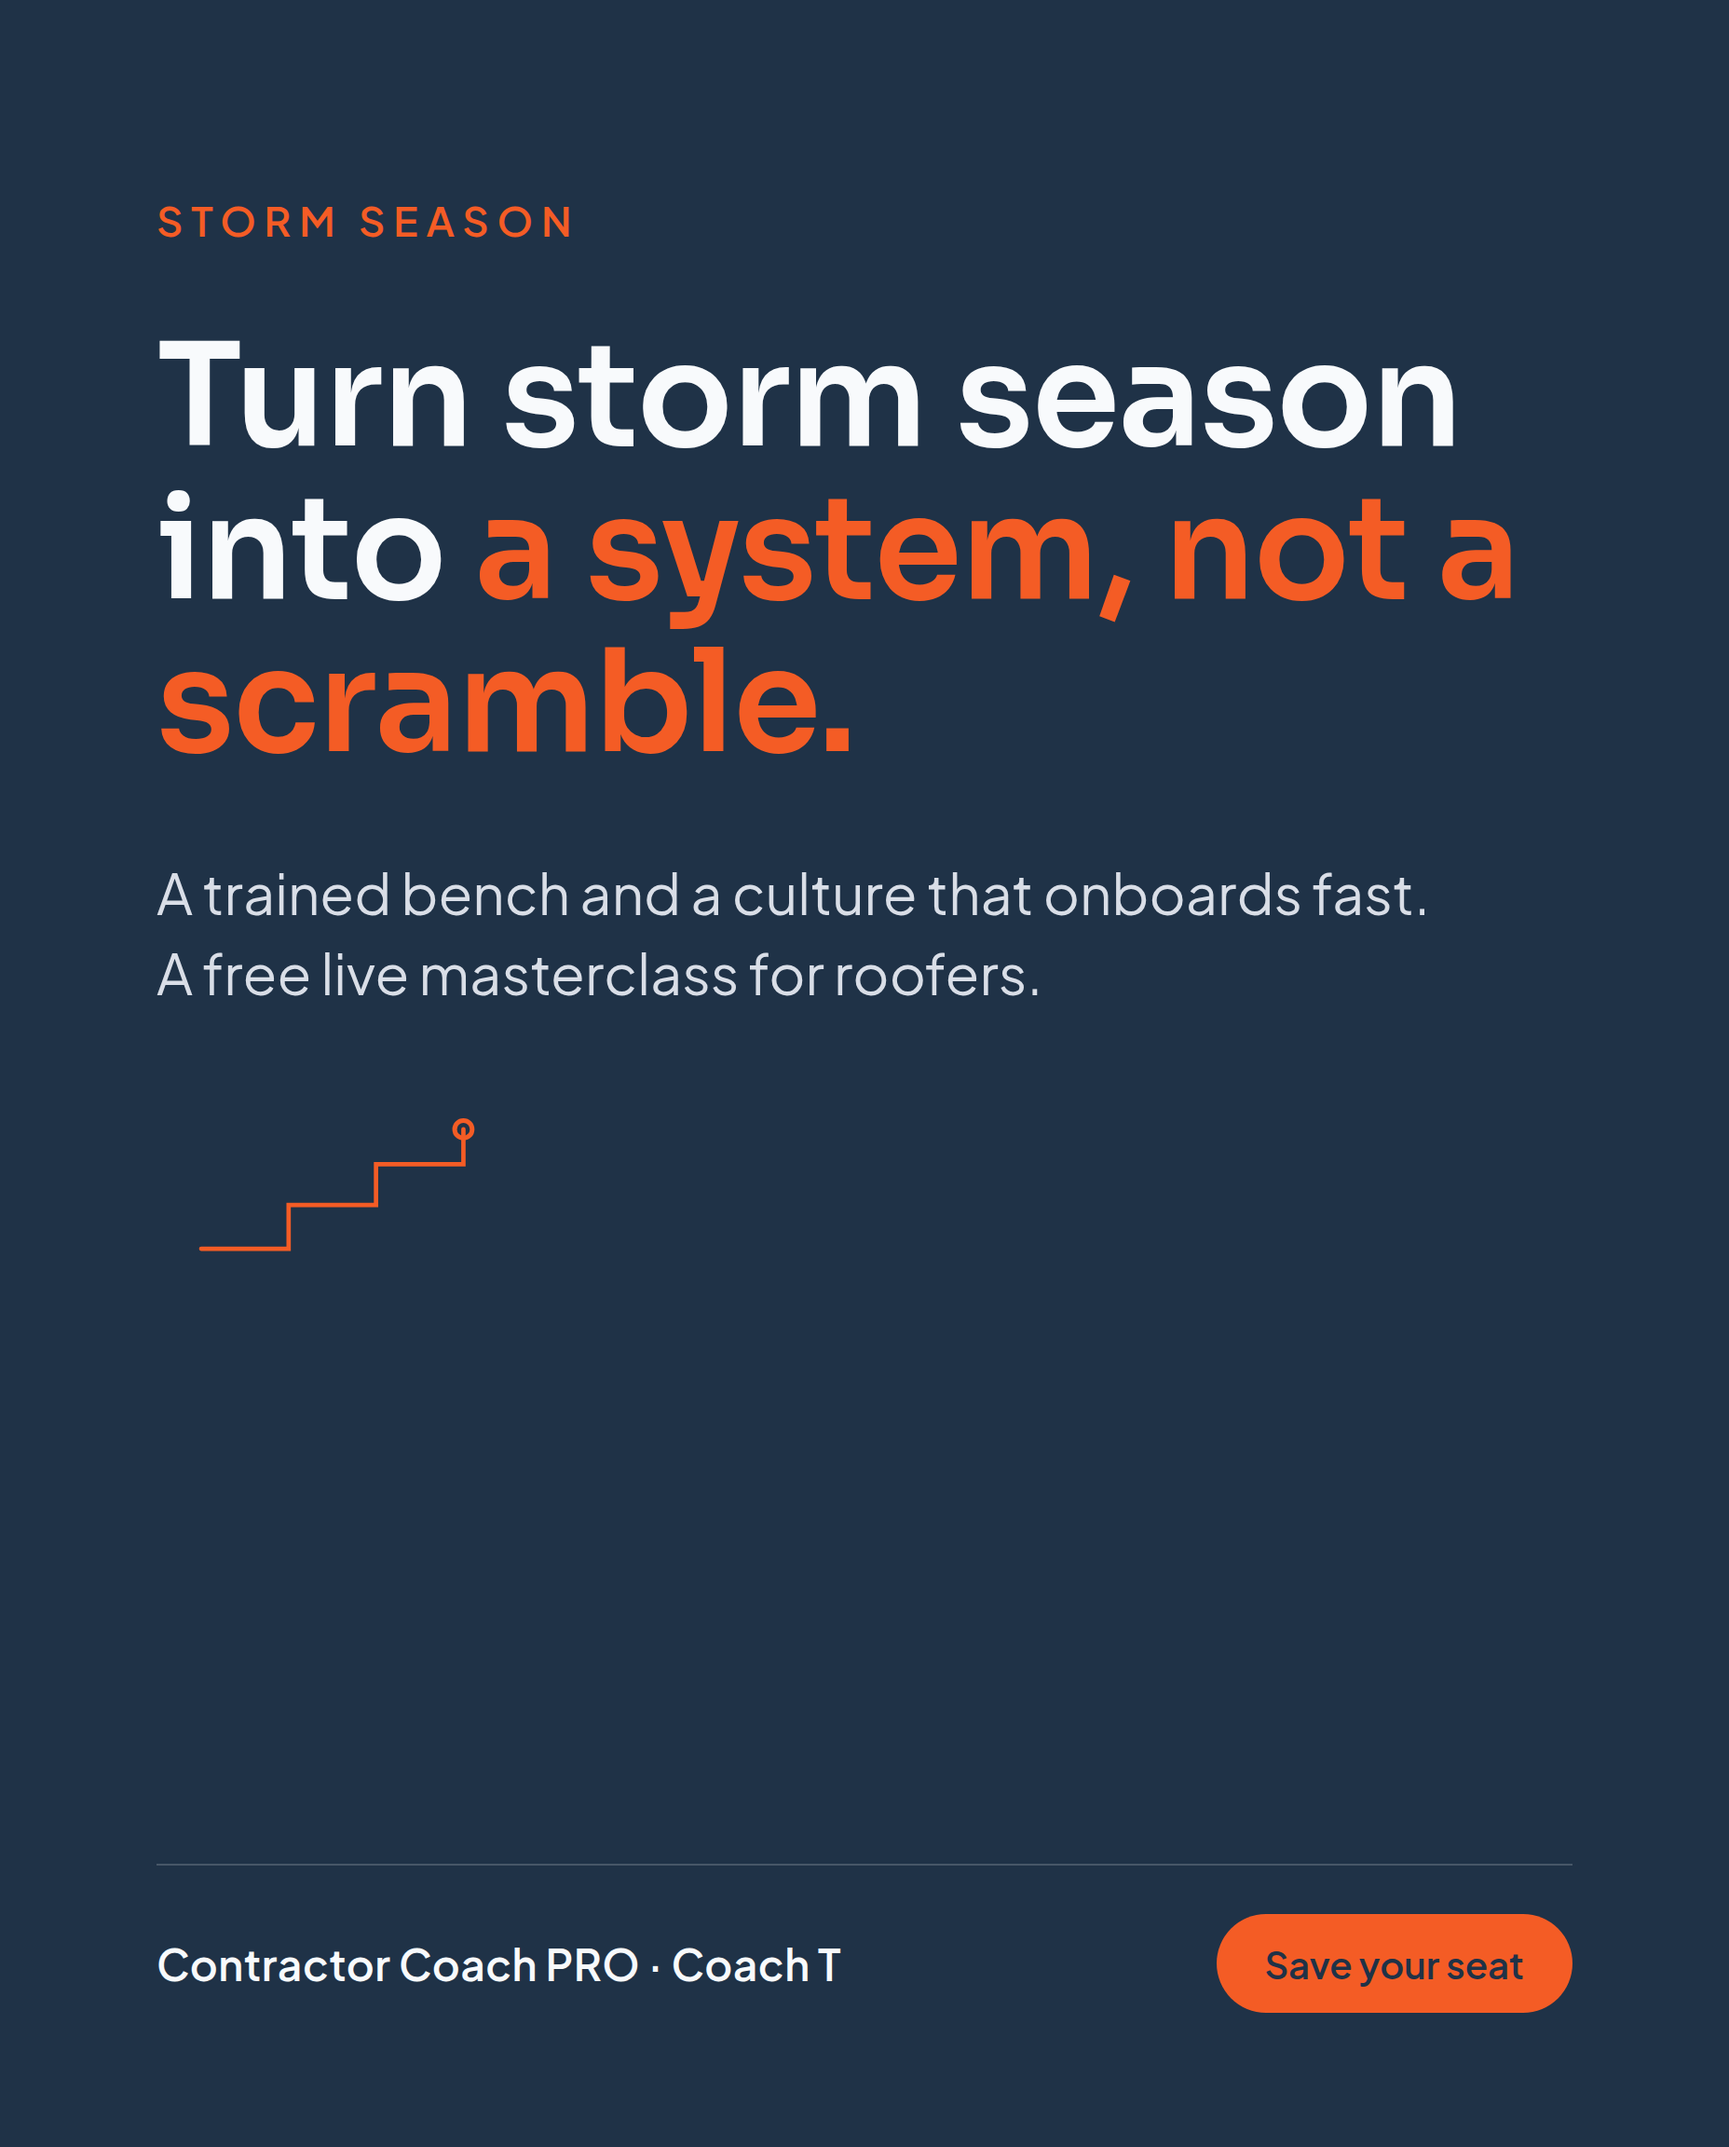
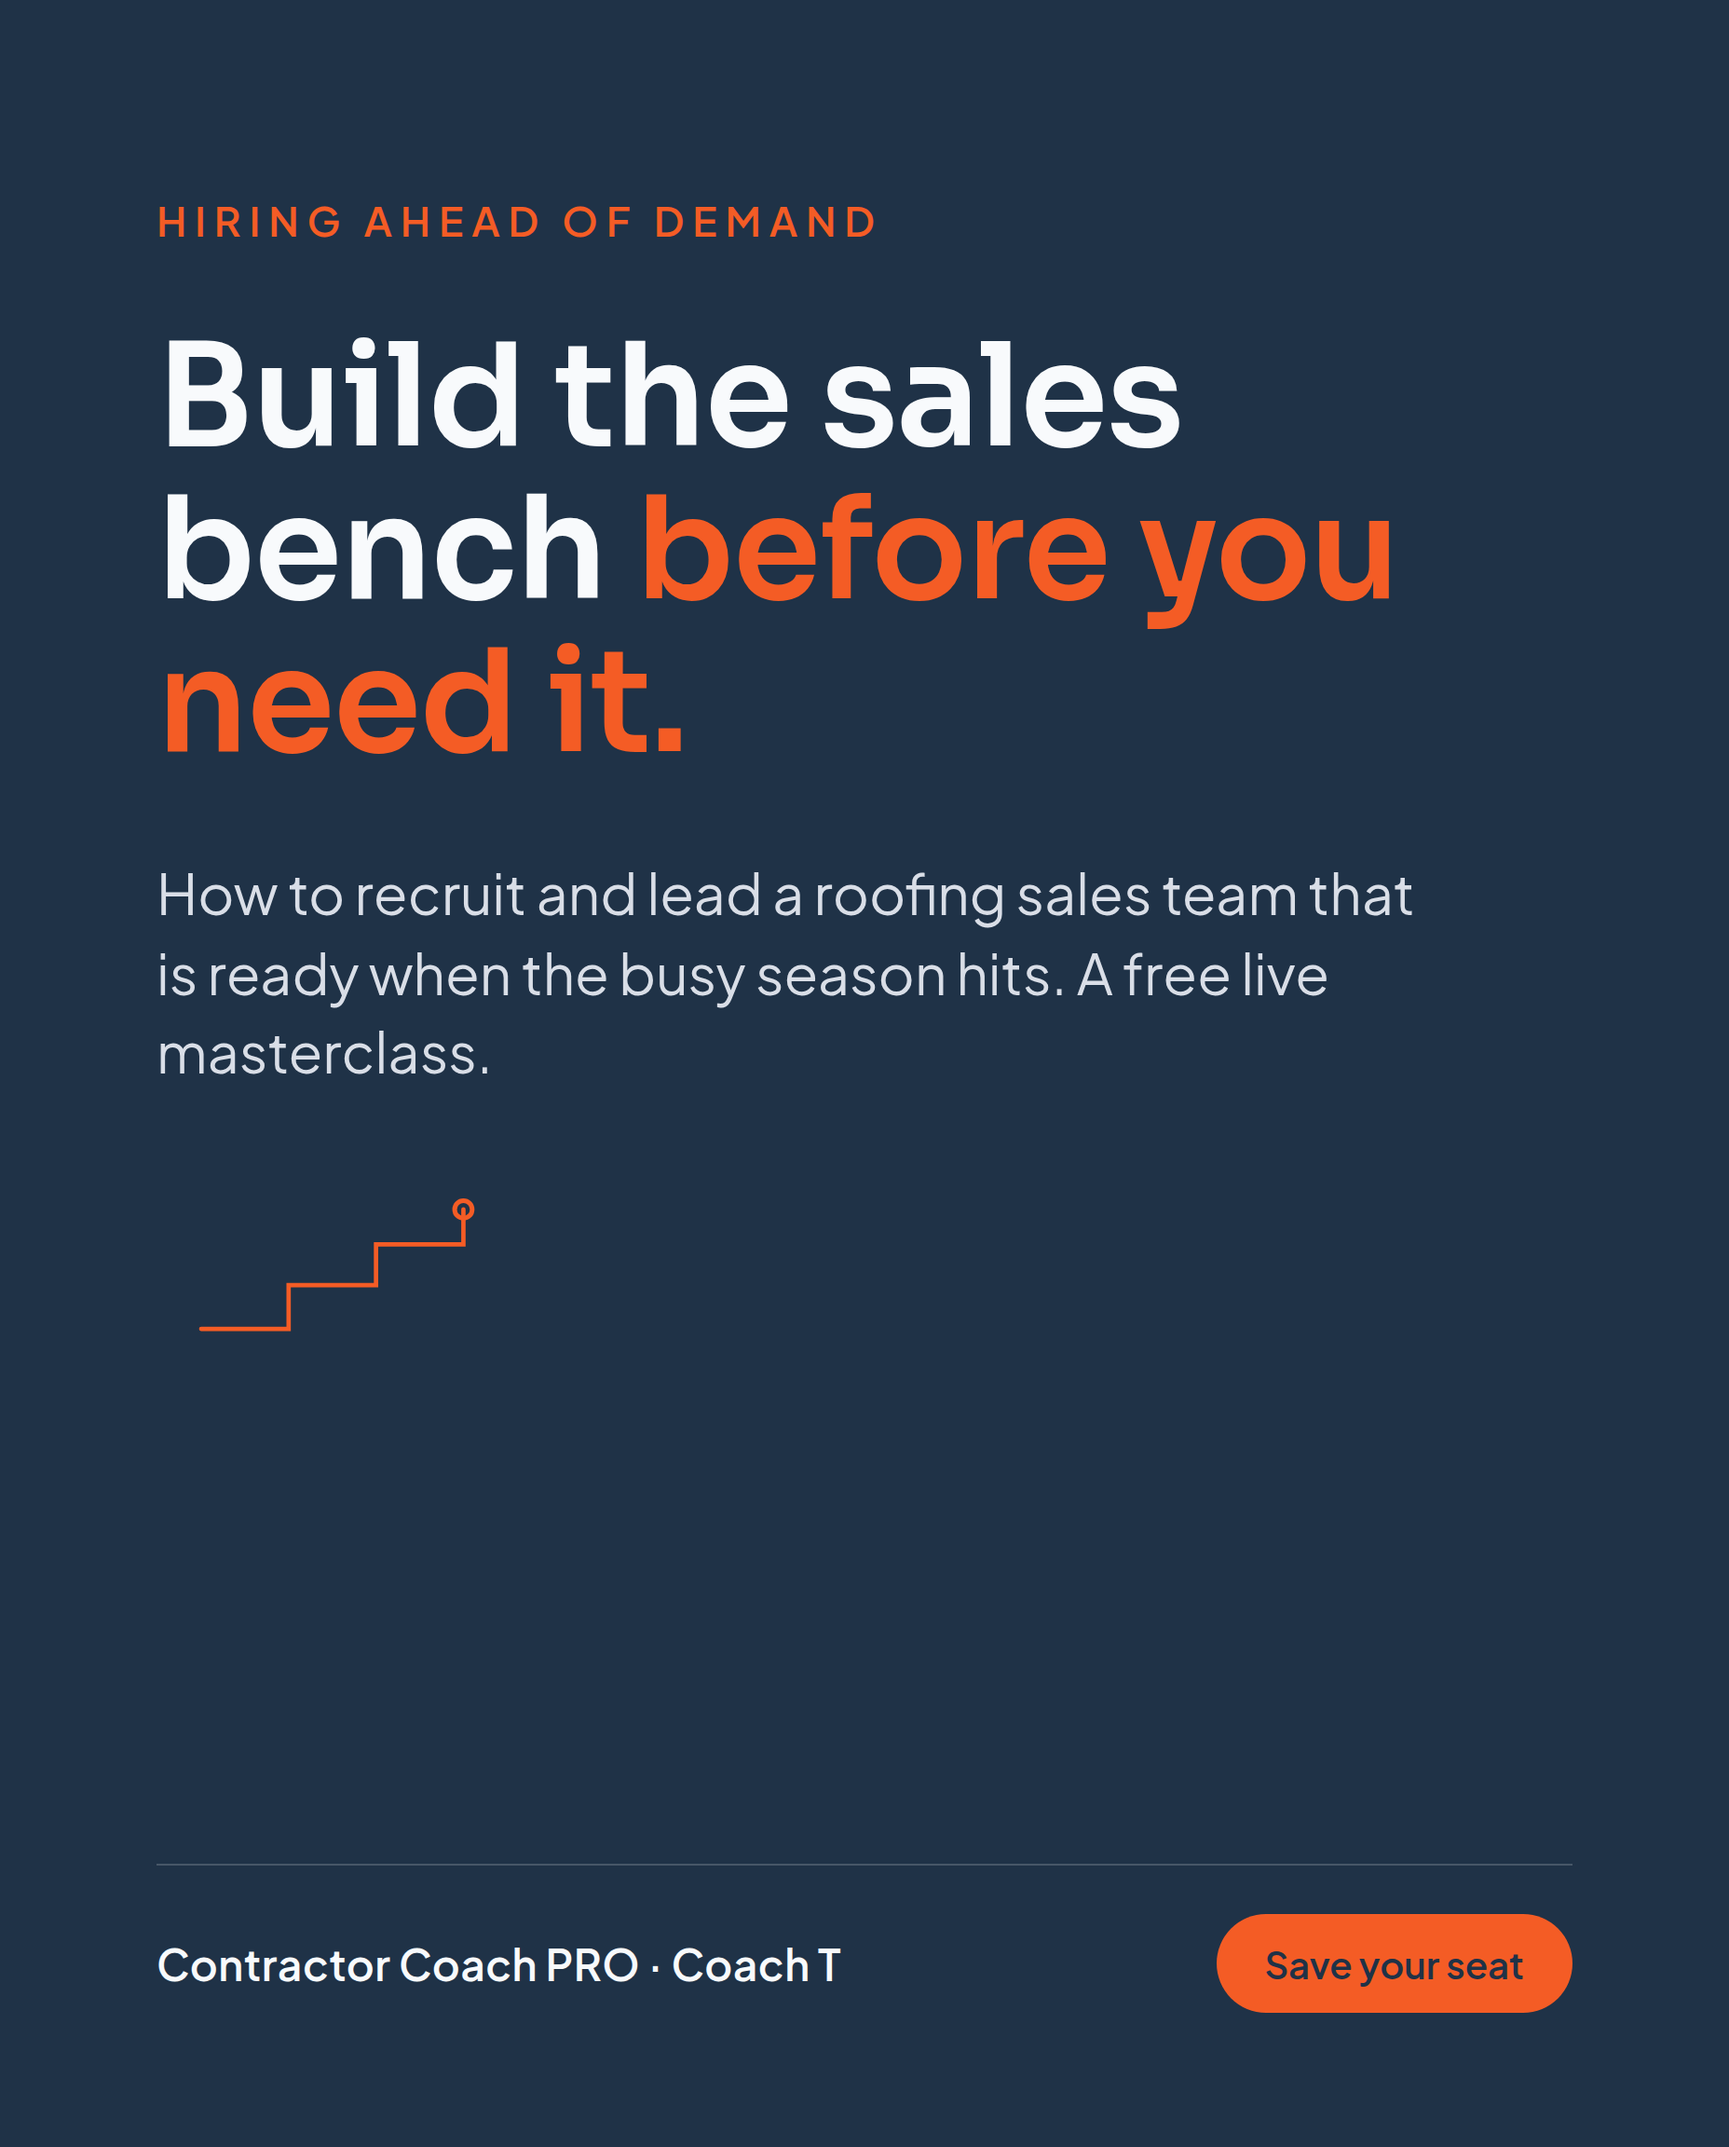
showcase: nathan-tebedo

diff --git a/nathan-tebedo/index.html b/nathan-tebedo/index.html
@@ -73,12 +73,12 @@
   </div>
 
   <h1>The Hero Sales Culture Masterclass</h1>
-  <p class="framing">Here is what I mentioned in my email: the masterclass, the numbers, and the auction data that did not fit in the message. You've already built the hard part: the Contractor Coach PRO coaching program, Contractor Radio, and a free Contractor Assessment that leads owners into a live strategy session. <strong>What you don't have is a system to bring in roofing contractors who have never heard of you and convert them into Contractor Coach PRO program customers.</strong> The paid ads register cold owners into this new live masterclass, a second funnel that runs alongside your free Contractor Assessment and warms them for the program. This is that system.</p>
+  <p class="framing">Here is what I mentioned in my email: the masterclass, the numbers, and the auction data that did not fit in the message. You've already built the hard part: the Contractor Coach PRO coaching program, Contractor Radio, and a free Contractor Assessment that leads owners into a live strategy session. <strong>What you don't have is a system to bring in roofing contractors who have never heard of you and convert them into Contractor Coach PRO program customers.</strong> Here is the through-line: the paid ads register cold owners into this new live masterclass we built, and the masterclass hands the warmed-up owners straight into your existing free Contractor Assessment and strategy session. It is one second, always-on funnel feeding the intake you already run. This is that system.</p>
 
   <div class="section">
     <div class="section-label">The masterclass, built as a sample</div>
     <iframe class="deck-embed" src="/nathan-tebedo/deck.html" allowfullscreen></iframe>
-    <div class="deck-caption">Rather than describe what I would build, I built a working sample of it: a live contractor-facing masterclass drawn from your Hero Sales Culture lane, ready to present under Coach T. Use arrow keys or click to navigate.</div>
+    <div class="deck-caption">Rather than describe what I would build, I built a sample of it: the deck for a live contractor-facing masterclass in your Hero Sales Culture lane. It is the headline teaching, not a full curriculum with speaker notes, but it shows the angle and how the class would run under Coach T. Use arrow keys or click to navigate.</div>
   </div>
 
   <div class="section">
@@ -87,7 +87,7 @@
       <img src="/nathan-tebedo/ad01.png" alt="Ad concept: you're the best closer in your company, and that's the problem">
       <img src="/nathan-tebedo/ad02.png" alt="Ad concept: hiring roofing sales reps who actually close">
       <img src="/nathan-tebedo/ad03.png" alt="Ad concept: build a team that sells when you're on the roof">
-      <img src="/nathan-tebedo/ad04.png" alt="Ad concept: turn storm season into a system, not a scramble">
+      <img src="/nathan-tebedo/ad04.png" alt="Ad concept: build the sales bench before you need it">
     </div>
   </div>
 
@@ -132,7 +132,7 @@
   <div class="section calendly-section">
     <div class="section-label">If you want to talk it through</div>
     <h2>Book a time</h2>
-    <p>Quick 30-minute call. I show you how the ads and the masterclass would run alongside your free Contractor Assessment funnel and what the numbers and expected returns would look like for a build like this.</p>
+    <p>Quick 30-minute call. I walk you through how the ads and the live masterclass would feed your existing free Contractor Assessment funnel, and the registration and booking numbers behind a build like this. No revenue projection, since your program pricing is yours, not mine to guess.</p>
     <div class="calendly-wrap">
       <div class="calendly-inline-widget" data-url="https://calendly.com/dustin-780copy/30min"></div>
       <script type="text/javascript" src="https://assets.calendly.com/assets/external/widget.js" async></script>

diff --git a/nathan-tebedo/deck.html b/nathan-tebedo/deck.html
@@ -99,7 +99,7 @@ const S = [
 
  {t:'section',idx:'Part Three',title:'The Company That Runs Without You'},
  {t:'normal',k:'The owner steps back',title:'Estimates get sold when you are nowhere near them.',body:'The day-to-day of a roofing company where the sales floor runs on the standard instead of the founder. You review the scoreboard and coach the team, rather than personally carrying every close.'},
- {t:'normal',k:'The season stops being a gamble',title:'Storm season becomes a system, not a scramble.',body:'A trained bench and a culture that onboards fast means a spike in demand is capacity you planned for, not chaos you survived. Growth, control, and the freedom to build the company you actually wanted.'},
+ {t:'normal',k:'A bench, not a scramble',title:'Hiring ahead of demand instead of chasing it.',body:'This is the recruiting and leadership side of a busy season: a bench of trained reps and a culture that onboards them fast, so a spike in demand tends to meet a team that is ready rather than an owner scrambling to cover it alone. Done well, it can turn peak season from a personal grind into the team\'s job.'},
 
  {t:'section',idx:'Who Is Teaching This',title:'Coach T and Contractor Coach PRO'},
  {t:'normal',k:'Not theory',title:'Twenty-plus years in home services, and hundreds of contractors coached.',body:'Coach T is Lead Coach at Contractor Coach PRO and co-host of Contractor Radio, focused on sales culture, recruiting, and leadership for contractor teams. This is the sales-team work he does with roofers every week.'},
